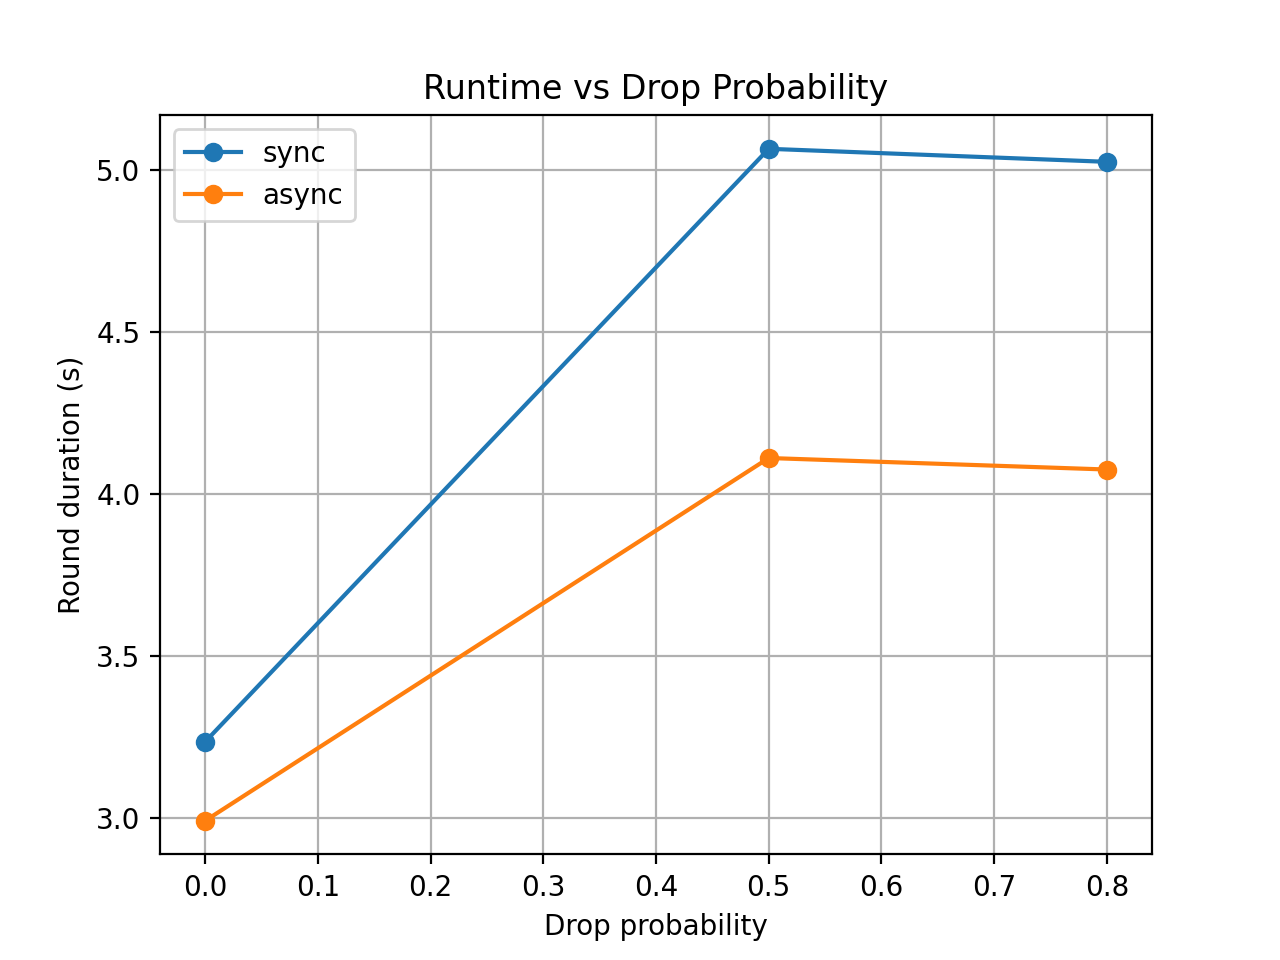
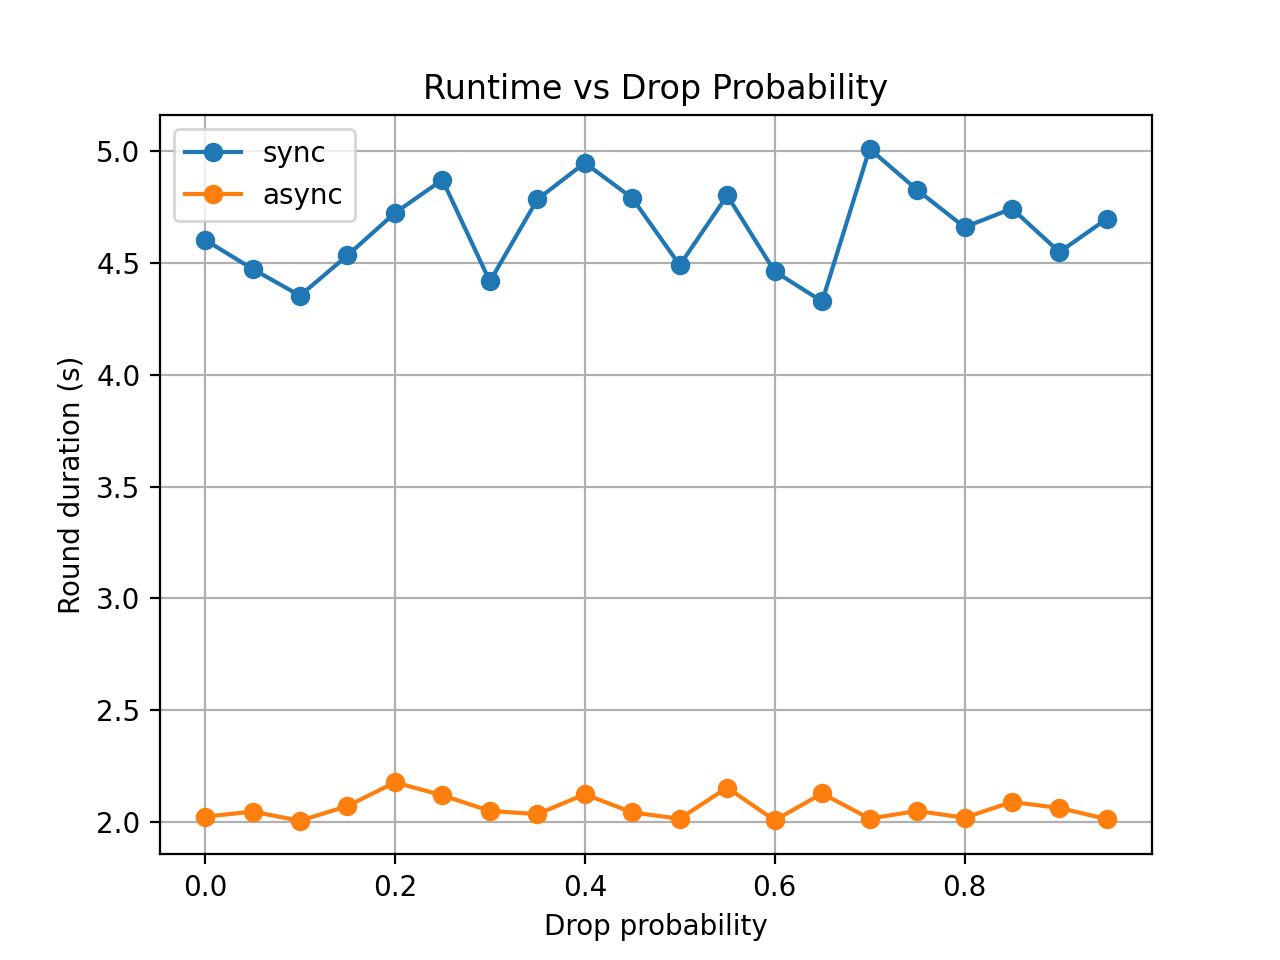
Finer runs for clearer trendlines

diff --git a/scripts/run_experiments.py b/scripts/run_experiments.py
@@ -8,14 +8,22 @@ from pathlib import Path
 
 
 # Each command string contains the drop probability as: --drop-prob X
-COMMANDS = [
-    "run_sync_demo.py --clients 5 --timeout 5 --drop-prob 0.0 --max-delay 3",
-    "run_sync_demo.py --clients 5 --timeout 5 --drop-prob 0.5 --max-delay 3",
-    "run_sync_demo.py --clients 5 --timeout 5 --drop-prob 0.8 --max-delay 3",
-    "run_async_demo.py --clients 5 --timeout 5 --drop-prob 0.0 --max-delay 3 --grace 1",
-    "run_async_demo.py --clients 5 --timeout 5 --drop-prob 0.5 --max-delay 3 --grace 1",
-    "run_async_demo.py --clients 5 --timeout 5 --drop-prob 0.8 --max-delay 3 --grace 1",
-]
+COMMANDS = []
+clients = 50
+timeout = 2
+max_delay = 4
+grace = 2
+
+# Linearly spaced drop probabilities
+probs = [round(i * 1.0 / 20, 2) for i in range(20)]
+
+for p in probs:
+    COMMANDS.append(
+        f"run_sync_demo.py --clients {clients} --timeout {timeout} --drop-prob {p} --max-delay {max_delay}"
+    )
+    COMMANDS.append(
+        f"run_async_demo.py --clients {clients} --timeout {timeout} --drop-prob {p} --max-delay {max_delay} --grace {grace}"
+    )
 
 PYTHON = "python"  # or ".venv/bin/python3" if you prefer absolute
 
